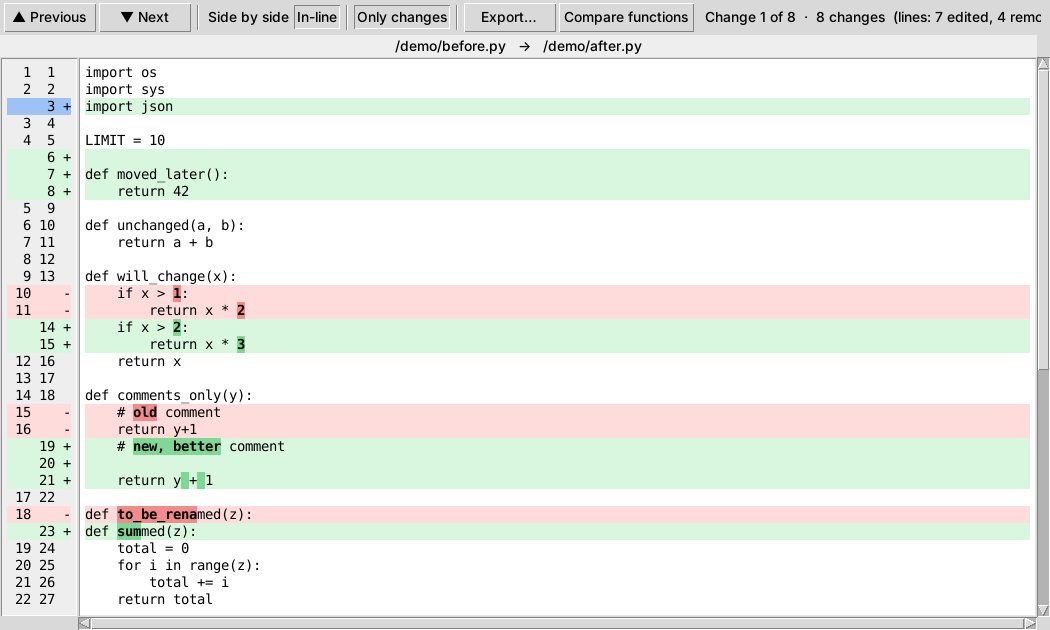
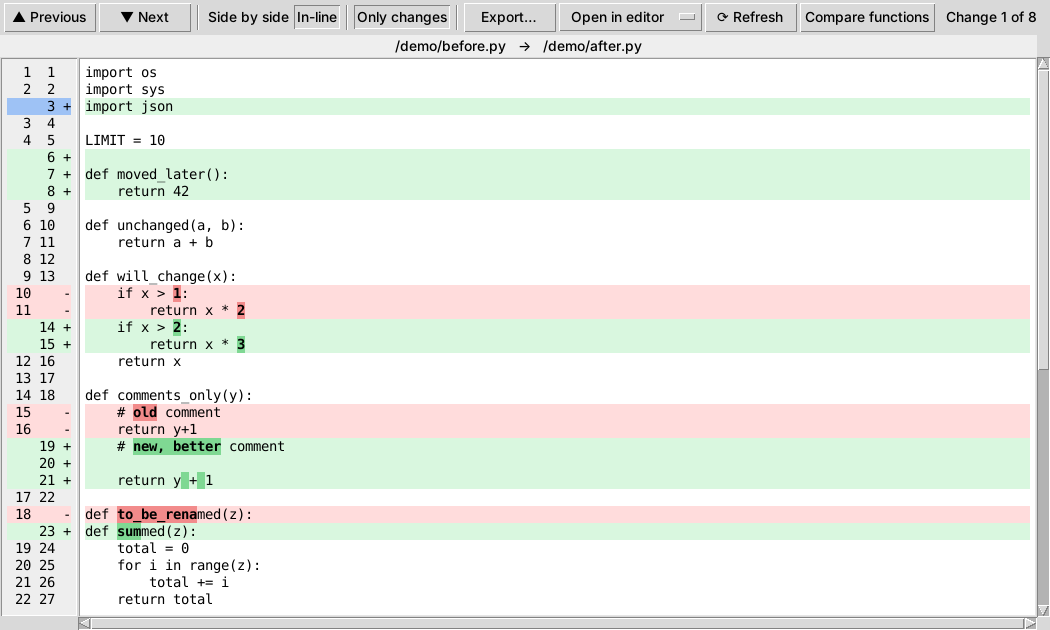
Add files via upload

Changed region(s): [[0.5486, 0.0, 1.0, 0.0603]]

diff --git a/pydiff.py b/pydiff.py
@@ -135,7 +135,8 @@ def check_dependencies():
     for part in (('ui', 'mainwindow.py'), ('ui', 'mainwindow_ui.py'), ('ui', 'diffview.py'),
                  ('ui', 'functioncompare.py'), ('ui', 'searchtextdialog.py'),
                  ('utilities', 'diffengine.py'), ('utilities', 'textfiles.py'),
-                 ('utilities', 'settings.py'), ('utilities', 'gittools.py')):
+                 ('utilities', 'settings.py'), ('utilities', 'gittools.py'),
+                 ('utilities', 'editor.py')):
         if not os.path.isfile(os.path.join(APP_DIR, *part)):
             report('pydiff is incomplete',
                    'This file is missing:\n%s\n\nPlease download pydiff again.'

diff --git a/CHANGES.md b/CHANGES.md
@@ -15,6 +15,7 @@ Every bug listed under "Bug fixes" was reproduced with the original code before 
 - **New: git integration**: compare a file with its last (or any) commit, and use pydiff as git's diff viewer.
 - **New: UTF-16 and binary file handling**, encoding and line-ending notes, and an option to ignore line-ending-only differences in folder comparisons.
 - **New: start maximised**, and view choices remembered between runs.
+- **New: right-click menu** (Copy, Select All), **Open in editor** at the current line, and **Refresh** (automatic when you switch back after editing).
 - **New: one-click Windows launcher** (`Run_PyDiff.bat`) with automatic dependency checks.
 - **Clearer highlighting**: readable text selection, bolder changed characters.
 - **Better error handling**: problems are reported instead of failing silently.
@@ -153,6 +154,15 @@ A new **Git** menu:
 - **View → Start Maximised** opens pydiff full-screen every time.
 - The view mode, *Only changes*, context lines, *Start maximised* and the line-endings option are remembered in `.pydiff_settings.json` in the user's home folder. If the file can't be written, nothing breaks.
 
+### Copy, Select All, Open in editor and Refresh
+- **Right-click menu** on both panes, in both windows: **Copy**, **Select All**, **Open Left/Right File in (editor)** and **Refresh**. **Ctrl+A** selects all in a pane, and *Edit → Select All* is added.
+- **Open in editor** (toolbar button, File menu or right-click) opens the file in the user's text editor **at the line being viewed**: the change last jumped to, or else the top of the screen. It uses Notepad++ if installed, otherwise VS Code, otherwise Notepad (on Linux: VS Code, gedit, Kate ...), or the program chosen with *Choose Editor…*. Line numbers are passed in each editor's own way (`-n12`, `--goto file:12`, `+12`).
+- **Safety:** pydiff never opens a file with Windows' default "open" action, because for `.py` files that *runs* the script.
+- The temporary copy made when comparing with a git commit isn't offered for editing; only the real file is.
+- **Refresh** (**F5** or the **⟳ Refresh** button) re-reads the files and compares again, keeping the scroll position and the current change. In folder mode it re-scans both folders and re-selects the same file. In the function window it re-parses both files and keeps the same function selected.
+- **Automatic refresh:** when pydiff's window gets focus back (e.g. after saving in your editor), it checks whether either file has changed, and refreshes if so.
+- **Files:** `utilities/editor.py` (new), `ui/diffview.py`, `ui/mainwindow.py`, `ui/functioncompare.py`, `utilities/settings.py`
+
 ### Not done: diff-match-patch
 A suggestion on the original project was to use Google's *diff-match-patch* library. Its main advantage would be speed on large files, which the new engine already provides, without adding a third-party package. So it wasn't added.
 
@@ -175,7 +185,7 @@ A suggestion on the original project was to use Google's *diff-match-patch* libr
 
 - Paths can now be given directly (`pydiff.py a.py b.py`) as well as with the original `-p a.py b.py`.
 - New options: `-f` / `--functions` and `--check-deps`.
-- New keyboard shortcuts: **Ctrl+O** (compare files), **Ctrl+E** (export), **Ctrl+L** (compare with last commit), **Alt+Up/Down** (previous/next change).
+- New keyboard shortcuts: **Ctrl+O** (compare files), **Ctrl+E** (export), **Ctrl+L** (compare with last commit), **Alt+Up/Down** (previous/next change), **F5** (refresh), **Ctrl+A** (select all).
 - pydiff can be started from any folder. It no longer has to be run from inside its own folder.
 
 ---
@@ -202,6 +212,7 @@ A suggestion on the original project was to use Google's *diff-match-patch* libr
 | `utilities/textfiles.py` | **new** | encoding detection (UTF-8/UTF-16/ANSI), binary detection, line endings |
 | `utilities/gittools.py` | **new** | git integration |
 | `utilities/settings.py` | **new** | remembered settings |
+| `utilities/editor.py` | **new** | finds the text editor and opens files at a line |
 | `Run_PyDiff.bat` | **new** | Windows one-click launcher |
 | `CHANGES.md` | **new** | this file |
 | `screenshot_main.png`, `screenshot_inline.png`, `screenshot_functions.png` | **new** | screenshots for the README |

diff --git a/README.md b/README.md
@@ -62,11 +62,23 @@ python pydiff.py --check-deps             # just check the dependencies
 | **Side by side / In-line** | two panes, or one pane with each removed line (red, `-`) shown above its replacement (green, `+`), like GitHub |
 | **Only changes** | hides unchanged stretches, keeping a few lines of context around each change. Set how many under *View → Lines of Context Around Changes* |
 | **Export…** | save the comparison as an **HTML report** (opens in any web browser; matches the current view) or a standard **.diff / .patch** file (also **Ctrl+E**) |
+| **Open in editor** | open the left or right file in your text editor, at the line of the change you're looking at (see below) |
+| **⟳ Refresh** | compare again after a file has changed (also **F5**) |
 | **Compare functions** | the function-by-function view for Python files (also **Ctrl+K**) |
 
 The status text on the right summarises the differences, e.g. *"5 changes (lines: 3 edited, 1 removed, 4 added)"*. It also notes when the files use a different **encoding** (e.g. UTF-8 vs UTF-16) or different **line endings** (Windows CRLF vs Unix LF).
 
 Your choices (view mode, *Only changes*, context lines, *Start maximised*) are remembered for next time.
+
+### Copying, and editing in your own editor
+
+pydiff shows files; it doesn't edit them, so the panes are read-only (no paste or undo). But:
+
+- **Copy:** select text and press **Ctrl+C**, or **right-click → Copy**. **Ctrl+A** or **right-click → Select All** selects a whole pane.
+- **Open in editor:** **right-click → Open Left/Right File in…**, the **Open in editor** button, or the File menu. The file opens in your text editor **at the line you're looking at**: the change you last jumped to, or else the top of the screen.
+  - pydiff uses **Notepad++** if it's installed, otherwise **VS Code**, otherwise **Notepad**. Pick a different one with **Open in editor → Choose Editor…** (Notepad doesn't support jumping to a line).
+  - It never uses Windows' default "open" action, which for a `.py` file would *run* the script instead of editing it.
+- **Refresh:** save your edits, then switch back to pydiff. It notices the file has changed and **compares again automatically**, keeping your place. You can also press **F5** or click **⟳ Refresh**.
 
 ### Comparing two files
 
@@ -145,6 +157,9 @@ The **Git** menu (needs [git](https://git-scm.com/downloads) installed):
 | Ctrl+E | export results |
 | Ctrl+L | compare with last git commit |
 | Ctrl+C | copy selected text |
+| Ctrl+A | select all (in the pane you clicked) |
+| F5 | refresh (compare again) |
+| Right-click | Copy, Select All, Open in editor, Refresh |
 
 ### Start maximised
 
